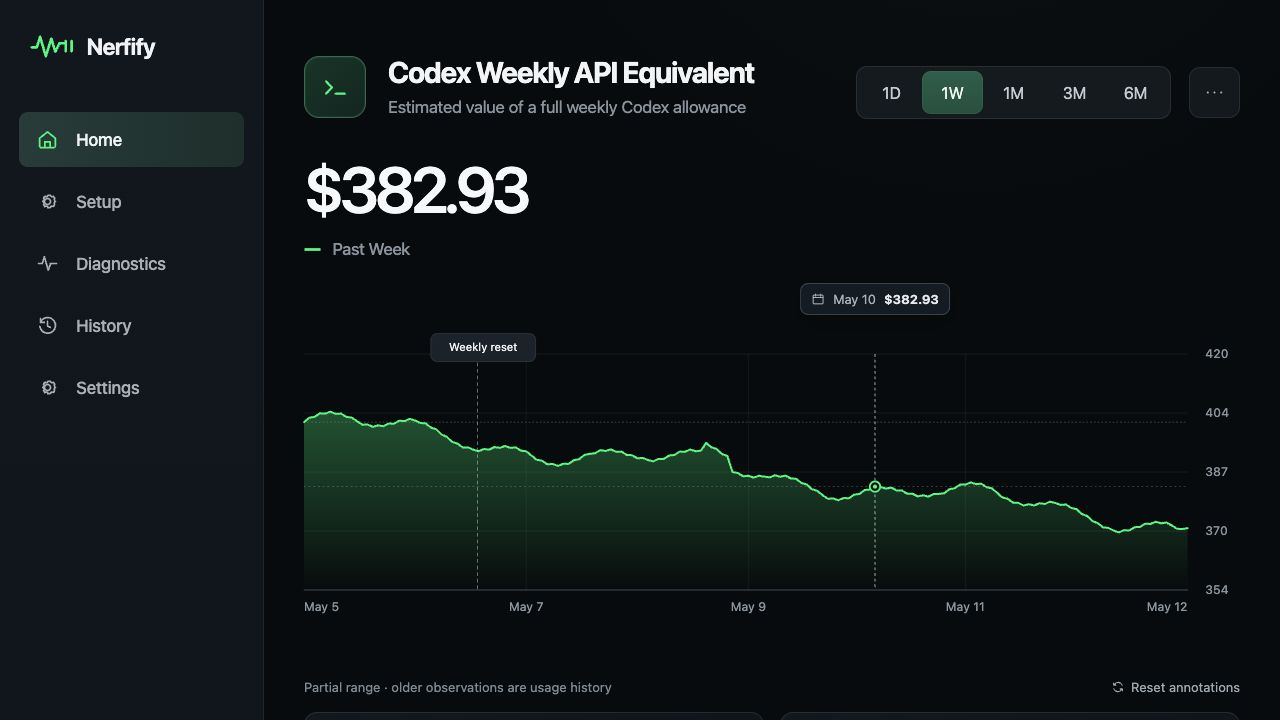
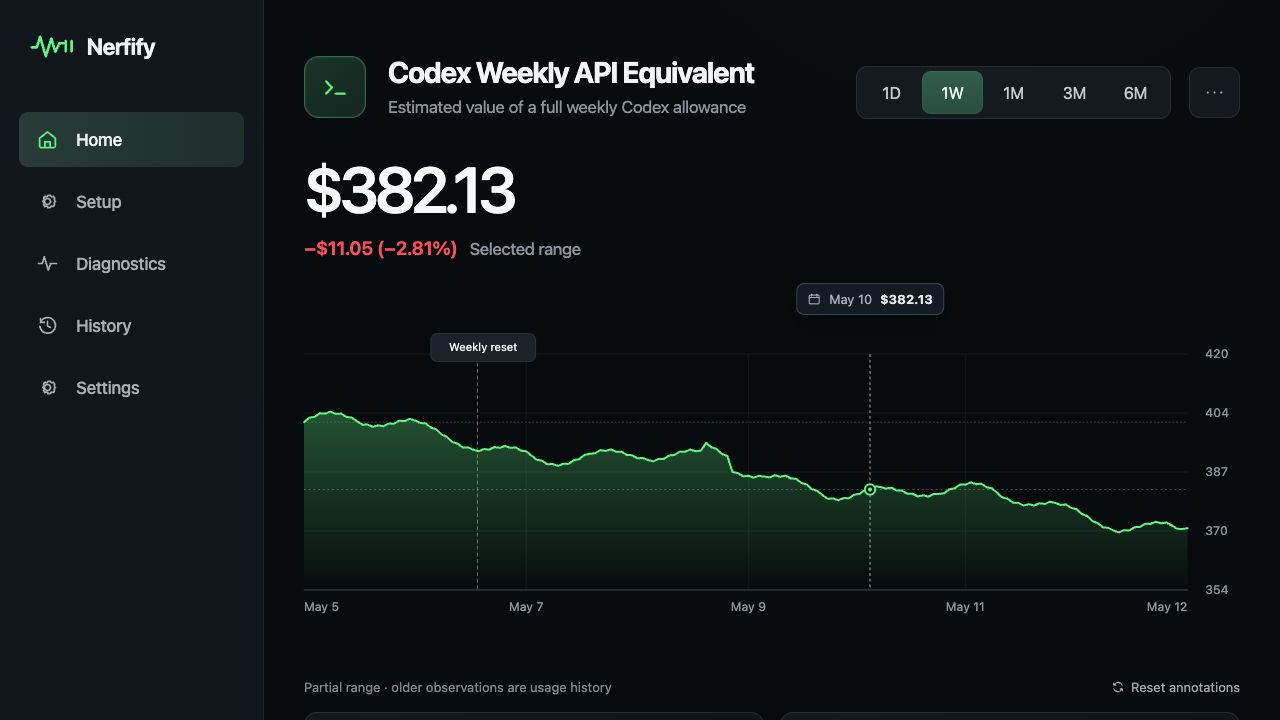
Show drag range value and percentage change

diff --git a/src/components/UsageChart.tsx b/src/components/UsageChart.tsx
@@ -7,7 +7,7 @@ interface UsageChartProps {
   annotations: Annotation[];
   range: Range;
   reducedMotion: boolean;
-  onScrub?: (point: HistoryPoint | null) => void;
+  onScrub?: (point: HistoryPoint | null, anchor: HistoryPoint | null) => void;
 }
 
 const chartWidth = 1000;
@@ -98,6 +98,7 @@ export function UsageChart({
 }: UsageChartProps) {
   const svgRef = useRef<SVGSVGElement>(null);
   const isDragging = useRef(false);
+  const anchorRef = useRef<HistoryPoint | null>(null);
   const [selection, setSelection] = useState<ChartSelection | null>(null);
 
   const values = useMemo(
@@ -147,21 +148,25 @@ export function UsageChart({
     const coordinate = coordinates[index];
     if (!point || !coordinate) return;
     setSelection({ point, coordinate, pointIndex: index, source: 'keyboard' });
-    onScrub?.(point);
+    onScrub?.(point, null);
   };
 
-  const updateSelection = (clientX: number, source: ChartSelection['source']) => {
+  const updateSelection = (
+    clientX: number,
+    source: ChartSelection['source'],
+    anchor: HistoryPoint | null | 'self' = null,
+  ) => {
     const svg = svgRef.current;
-    if (!svg || points.length === 0) return;
+    if (!svg || points.length === 0) return null;
     const rect = svg.getBoundingClientRect();
-    if (rect.width <= 0) return;
+    if (rect.width <= 0) return null;
     const svgX = ((clientX - rect.left) / rect.width) * chartWidth;
     const ratio = Math.max(0, Math.min(1, (svgX - plotLeft) / (plotRight - plotLeft)));
     const firstTimestamp = points[0].timestamp;
     const lastTimestamp = points.at(-1)?.timestamp ?? firstTimestamp;
     const timestamp = firstTimestamp + ratio * (lastTimestamp - firstTimestamp);
     const point = interpolatePoint(points, timestamp);
-    if (!point) return;
+    if (!point) return null;
     const valueRange = Math.max(bounds.max - bounds.min, 1);
     const y =
       point.valueUsd === null
@@ -173,7 +178,8 @@ export function UsageChart({
       pointIndex: null,
       source,
     });
-    onScrub?.(point);
+    onScrub?.(point, anchor === 'self' ? point : anchor);
+    return point;
   };
 
   useEffect(() => {
@@ -209,7 +215,8 @@ export function UsageChart({
     }
     if (event.key === 'Escape') {
       setSelection(null);
-      onScrub?.(null);
+      anchorRef.current = null;
+      onScrub?.(null, null);
     }
   };
 
@@ -255,7 +262,7 @@ export function UsageChart({
           onPointerDown={(event) => {
             event.currentTarget.setPointerCapture?.(event.pointerId);
             isDragging.current = true;
-            updateSelection(event.clientX, 'held');
+            anchorRef.current = updateSelection(event.clientX, 'held', 'self');
           }}
           onPointerMove={(event) => {
             if (isDragging.current || event.pointerType === 'mouse') {
@@ -263,6 +270,7 @@ export function UsageChart({
               updateSelection(
                 coalesced?.at(-1)?.clientX ?? event.clientX,
                 isDragging.current ? 'held' : 'hover',
+                isDragging.current ? anchorRef.current : null,
               );
             }
           }}
@@ -287,12 +295,13 @@ export function UsageChart({
           onPointerLeave={() => {
             if (!isDragging.current && selection?.source === 'hover') {
               setSelection(null);
-              onScrub?.(null);
+              onScrub?.(null, null);
             }
           }}
           onDoubleClick={() => {
             setSelection(null);
-            onScrub?.(null);
+            anchorRef.current = null;
+            onScrub?.(null, null);
           }}
           onKeyDown={keyHandler}
         >

diff --git a/src/App.tsx b/src/App.tsx
@@ -112,10 +112,23 @@ function HomeView({
   onRangeChange: (range: Range) => void;
   onResetAnnotations: () => void;
 }) {
-  const [scrubbed, setScrubbed] = useState<HistoryPoint | null>(null);
-  const displayValue = scrubbed?.valueUsd ?? quote?.valueUsd ?? null;
-  const displayChange = scrubbed ? null : (quote?.changeUsd ?? null);
-  const displayPercent = scrubbed ? null : (quote?.changePercent ?? null);
+  const [scrubbed, setScrubbed] = useState<{
+    point: HistoryPoint;
+    anchor: HistoryPoint | null;
+  } | null>(null);
+  const displayValue = scrubbed?.point.valueUsd ?? quote?.valueUsd ?? null;
+  const displayChange =
+    scrubbed?.point.valueUsd !== null && scrubbed?.anchor?.valueUsd != null
+      ? scrubbed.point.valueUsd - scrubbed.anchor.valueUsd
+      : scrubbed
+        ? null
+        : (quote?.changeUsd ?? null);
+  const displayPercent =
+    displayChange !== null && scrubbed?.anchor?.valueUsd
+      ? (displayChange / scrubbed.anchor.valueUsd) * 100
+      : scrubbed
+        ? null
+        : (quote?.changePercent ?? null);
   const isEmpty = !quote || quote.status === 'empty';
 
   return (
@@ -145,7 +158,7 @@ function HomeView({
           <p className={displayChange !== null && displayChange < 0 ? 'negative' : 'positive'}>
             {formatSignedUsd(displayChange)}{' '}
             {displayPercent !== null ? `(${formatPercent(displayPercent)})` : ''}{' '}
-            <span>Past Week</span>
+            <span>{scrubbed?.anchor ? 'Selected range' : 'Past Week'}</span>
           </p>
         )}
         {isEmpty && (
@@ -160,7 +173,7 @@ function HomeView({
           annotations={annotations}
           range={range}
           reducedMotion={reducedMotion}
-          onScrub={setScrubbed}
+          onScrub={(point, anchor) => setScrubbed(point ? { point, anchor } : null)}
         />
         <div className="chart-actions">
           <span>

diff --git a/src/App.test.tsx b/src/App.test.tsx
@@ -1,6 +1,6 @@
-import { render, screen } from '@testing-library/react';
+import { fireEvent, render, screen } from '@testing-library/react';
 import userEvent from '@testing-library/user-event';
-import { describe, expect, it } from 'vitest';
+import { describe, expect, it, vi } from 'vitest';
 import App from './App';
 
 describe('Nerfify app shell', () => {
@@ -27,5 +27,30 @@ describe('Nerfify app shell', () => {
     await user.click(await screen.findByRole('button', { name: 'Diagnostics' }));
     expect(screen.getByRole('heading', { name: 'Diagnostics' })).toBeInTheDocument();
     expect(screen.getByText(/Prompts, account identifiers/)).toBeInTheDocument();
+  });
+
+  it('shows the dollar and percentage difference across a held drag', async () => {
+    render(<App />);
+    const chart = await screen.findByRole('img', {
+      name: /Estimated weekly API equivalent/,
+    });
+    vi.spyOn(chart, 'getBoundingClientRect').mockReturnValue({
+      left: 0,
+      top: 0,
+      width: 1000,
+      height: 308,
+      right: 1000,
+      bottom: 308,
+      x: 0,
+      y: 0,
+      toJSON: () => ({}),
+    });
+
+    fireEvent(chart, new MouseEvent('pointerdown', { bubbles: true, clientX: 100 }));
+    fireEvent(chart, new MouseEvent('pointermove', { bubbles: true, clientX: 900 }));
+
+    expect(screen.getByText('Selected range').parentElement).toHaveTextContent(
+      /[+−]\$\d+\.\d{2} \([+−]\d+\.\d{2}%\)/,
+    );
   });
 });

diff --git a/src/components/UsageChart.test.tsx b/src/components/UsageChart.test.tsx
@@ -51,6 +51,7 @@ describe('UsageChart', () => {
     expect(chart).toHaveAttribute('aria-grabbed', 'false');
     expect(onScrub).toHaveBeenCalledTimes(2);
     expect(onScrub.mock.calls[1][0].timestamp).toBeGreaterThan(onScrub.mock.calls[0][0].timestamp);
+    expect(onScrub.mock.calls[1][1]).toEqual(onScrub.mock.calls[0][0]);
   });
 
   it('interpolates between stored vertices instead of snapping to them', () => {

diff --git a/design-qa.md b/design-qa.md
@@ -31,6 +31,8 @@ The combined comparison shows the reference and implementation chart regions tog
 - Mouse hover follows the pointer without requiring a click.
 - Passive hover retains the normal arrow cursor.
 - Pressing enters a distinct grabbed state; pointer capture keeps scrubbing active along the full drag path and release locks the selected value.
+- The press point becomes the comparison baseline; the headline updates throughout the drag with the current value, signed dollar difference, and signed percentage difference.
+- Live start-to-end verification produced `$382.13`, `−$11.05`, and `−2.81%`.
 - Press-and-drag scrubbing selects continuously interpolated time and value data rather than snapping to stored vertices.
 - A one-pixel pointer sweep returned six distinct values (`$392.97`, `$393.07`, `$393.48`, `$393.90`, `$394.31`, `$394.73`), confirming fine-grained tracking.
 - Selection persisted after pointer release.
@@ -45,7 +47,8 @@ The combined comparison shows the reference and implementation chart regions tog
 3. Interaction review found pointer selection snapped to stored observations (P1).
 4. Replaced nearest-point mouse selection with timestamp/value interpolation and hover tracking.
 5. Added an explicit held/locked interaction state so press-hold-drag is distinguishable from passive hover.
-6. Final live verification confirms pixel-level pointer movement, native hold-and-drag capture, normal hover cursor, and no console errors.
+6. Added Apple-style start-to-end dollar and percentage comparison during held drags.
+7. Final live verification confirms pixel-level pointer movement, native hold-and-drag capture, start/end comparison, normal hover cursor, and no console errors.
 
 ## Findings
 
